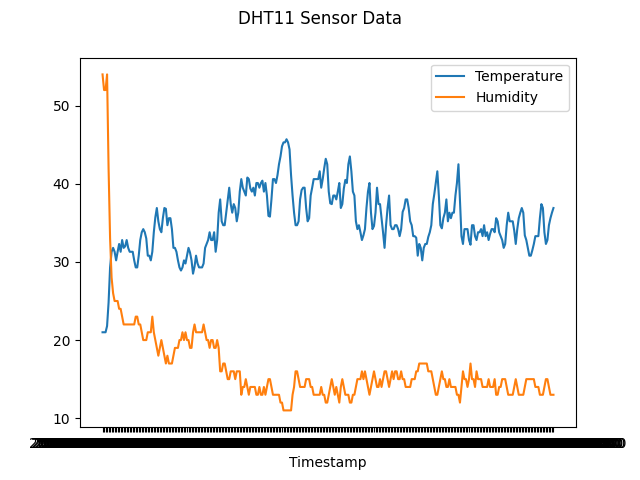
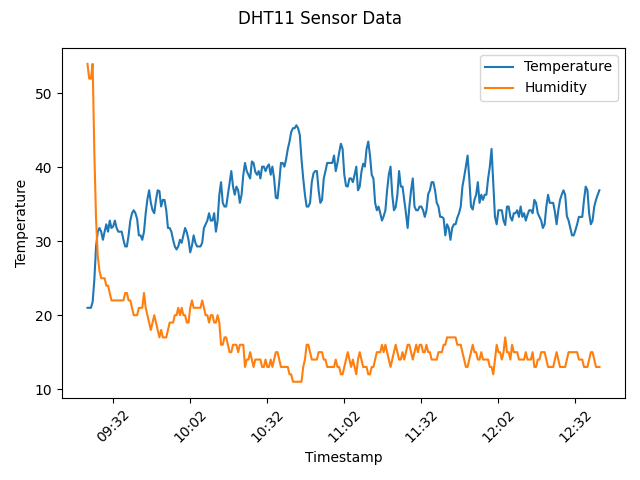
updated formating for Timestamp

diff --git a/DHT11 sensor code/DHT11_Graph.py b/DHT11 sensor code/DHT11_Graph.py
@@ -1,17 +1,35 @@
 import pandas as pd 
 import matplotlib.pyplot as plt
+import matplotlib.dates as mdates
 
-data = pd.read_csv('DHT11_log.csv')
+df = pd.read_csv('DHT11_log.csv')
 
-x = data["Timestamp"] 
-y1 = data['avg_temp']
-y2 = data['avg_humidity']
+#30 minute conversion for timestamp every 30 minutes
+df["Timestamp"] = pd.to_datetime(df["Timestamp"])
+plt.gca().xaxis.set_major_locator(mdates.MinuteLocator(interval=30))
+plt.gca().xaxis.set_major_formatter(mdates.DateFormatter('%H:%M'))
 
+
+
+#setting axis
+x = df["Timestamp"] 
+y1 = df['avg_temp']
+y2 = df['avg_humidity']
+
+
+#plotting data
 plt.plot (x,y1, label = 'Temperature'   )
 plt.plot (x,y2, label = 'Humidity'    )
+plt.ylabel('Temperature')
 plt.xlabel('Timestamp')
-plt.suptitle('DHT11 Sensor Data')
 
+
+
+
+#saving and doing layout
+plt.suptitle('DHT11 Sensor Data')
+plt.xticks(rotation=45)
+plt.tight_layout()
 plt.legend()
 plt.savefig('Dht11_graph.png')
 plt.show()
